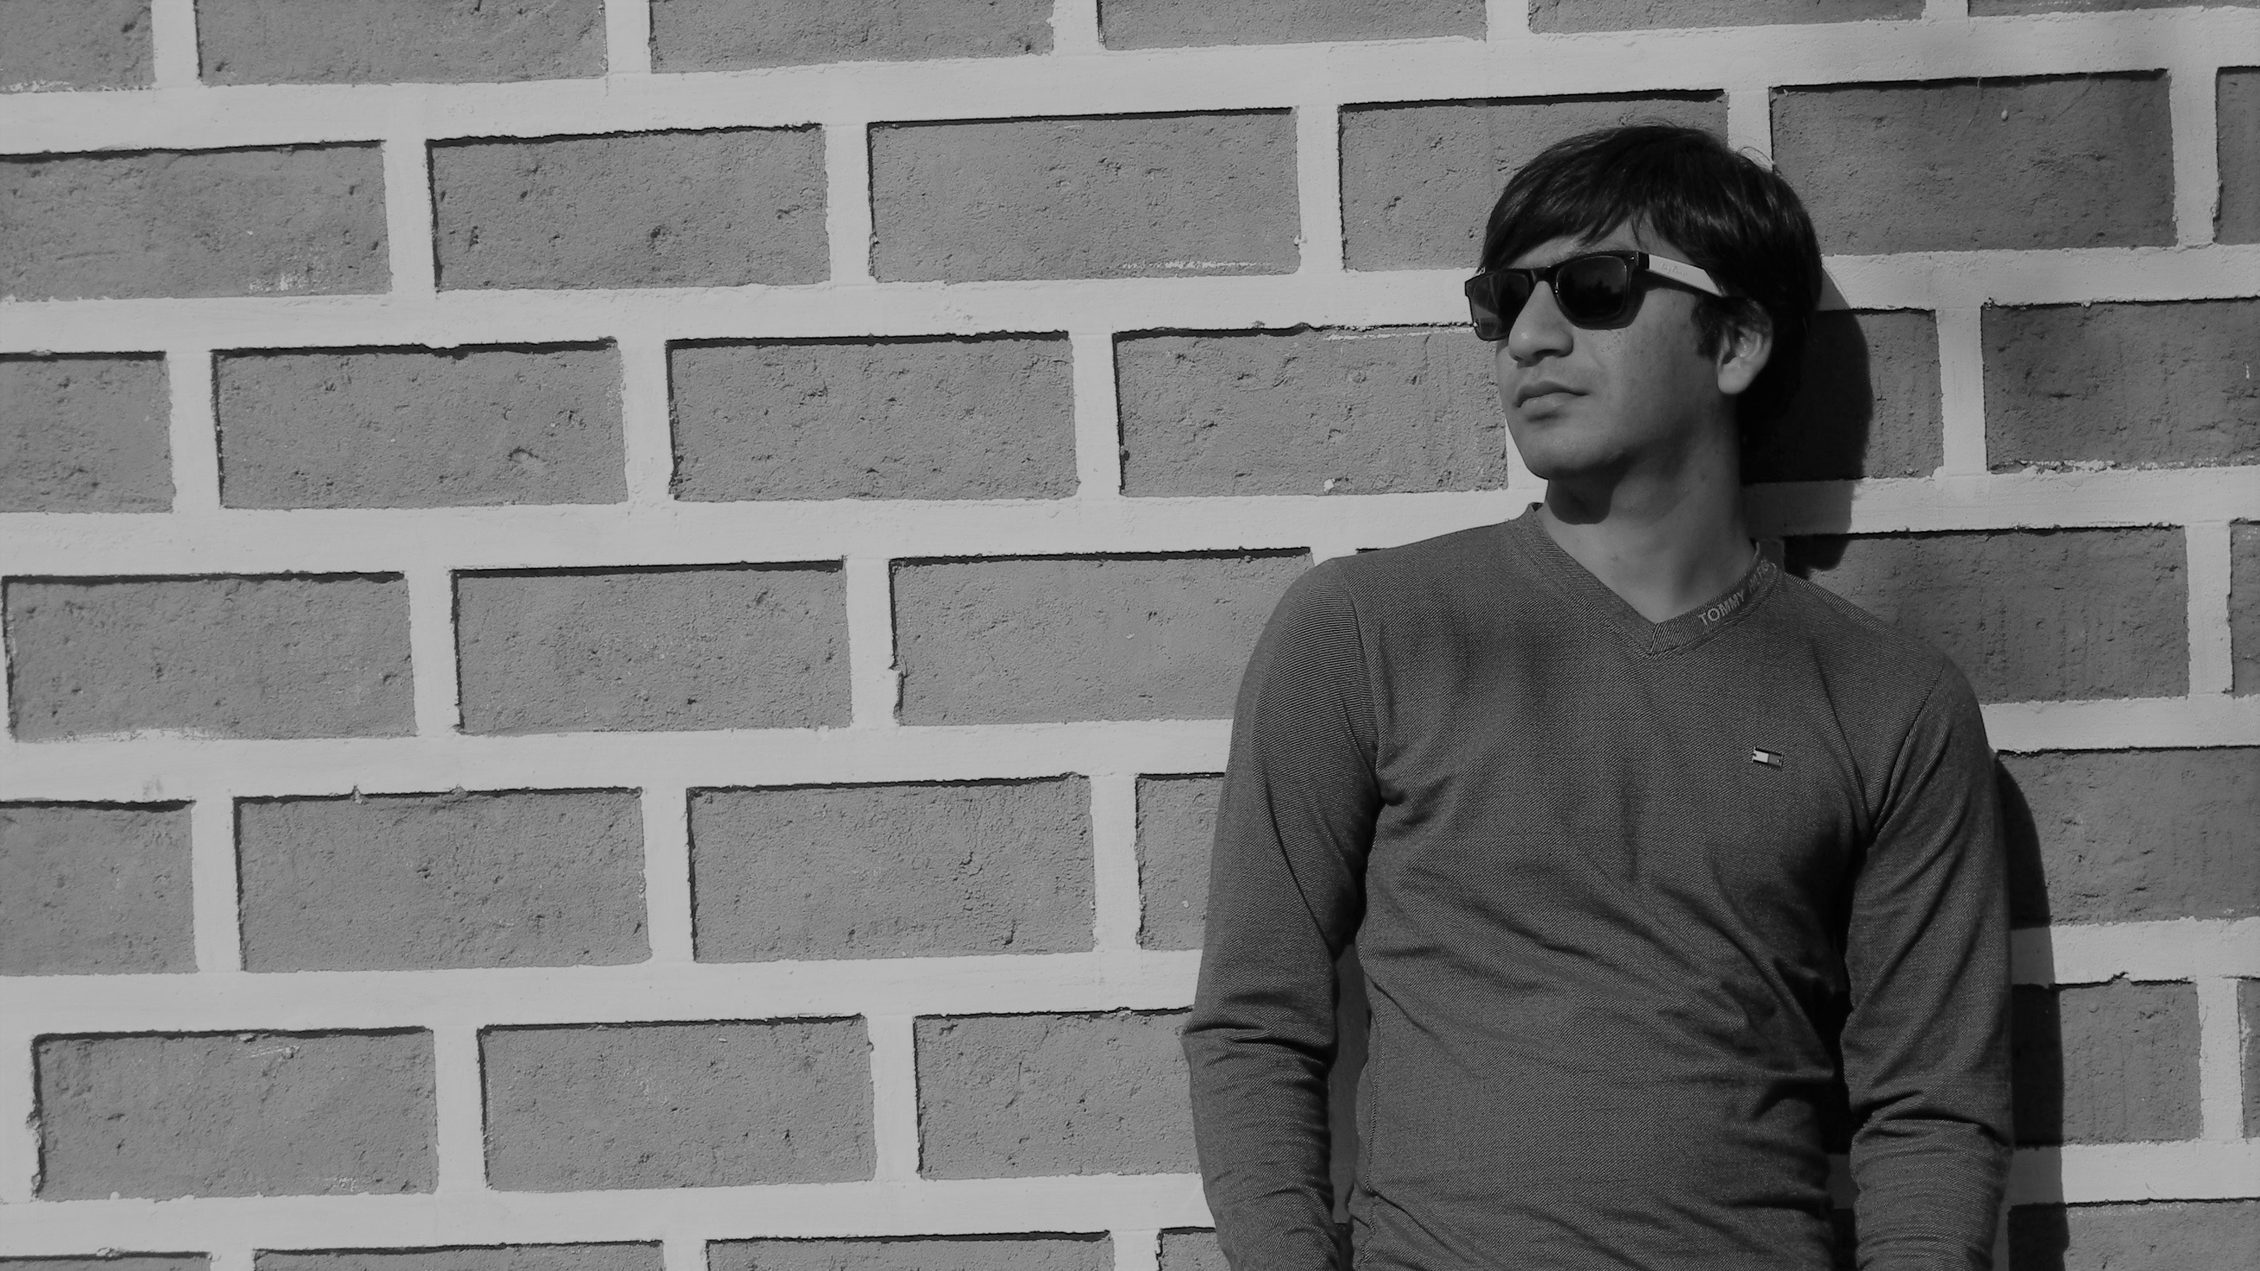
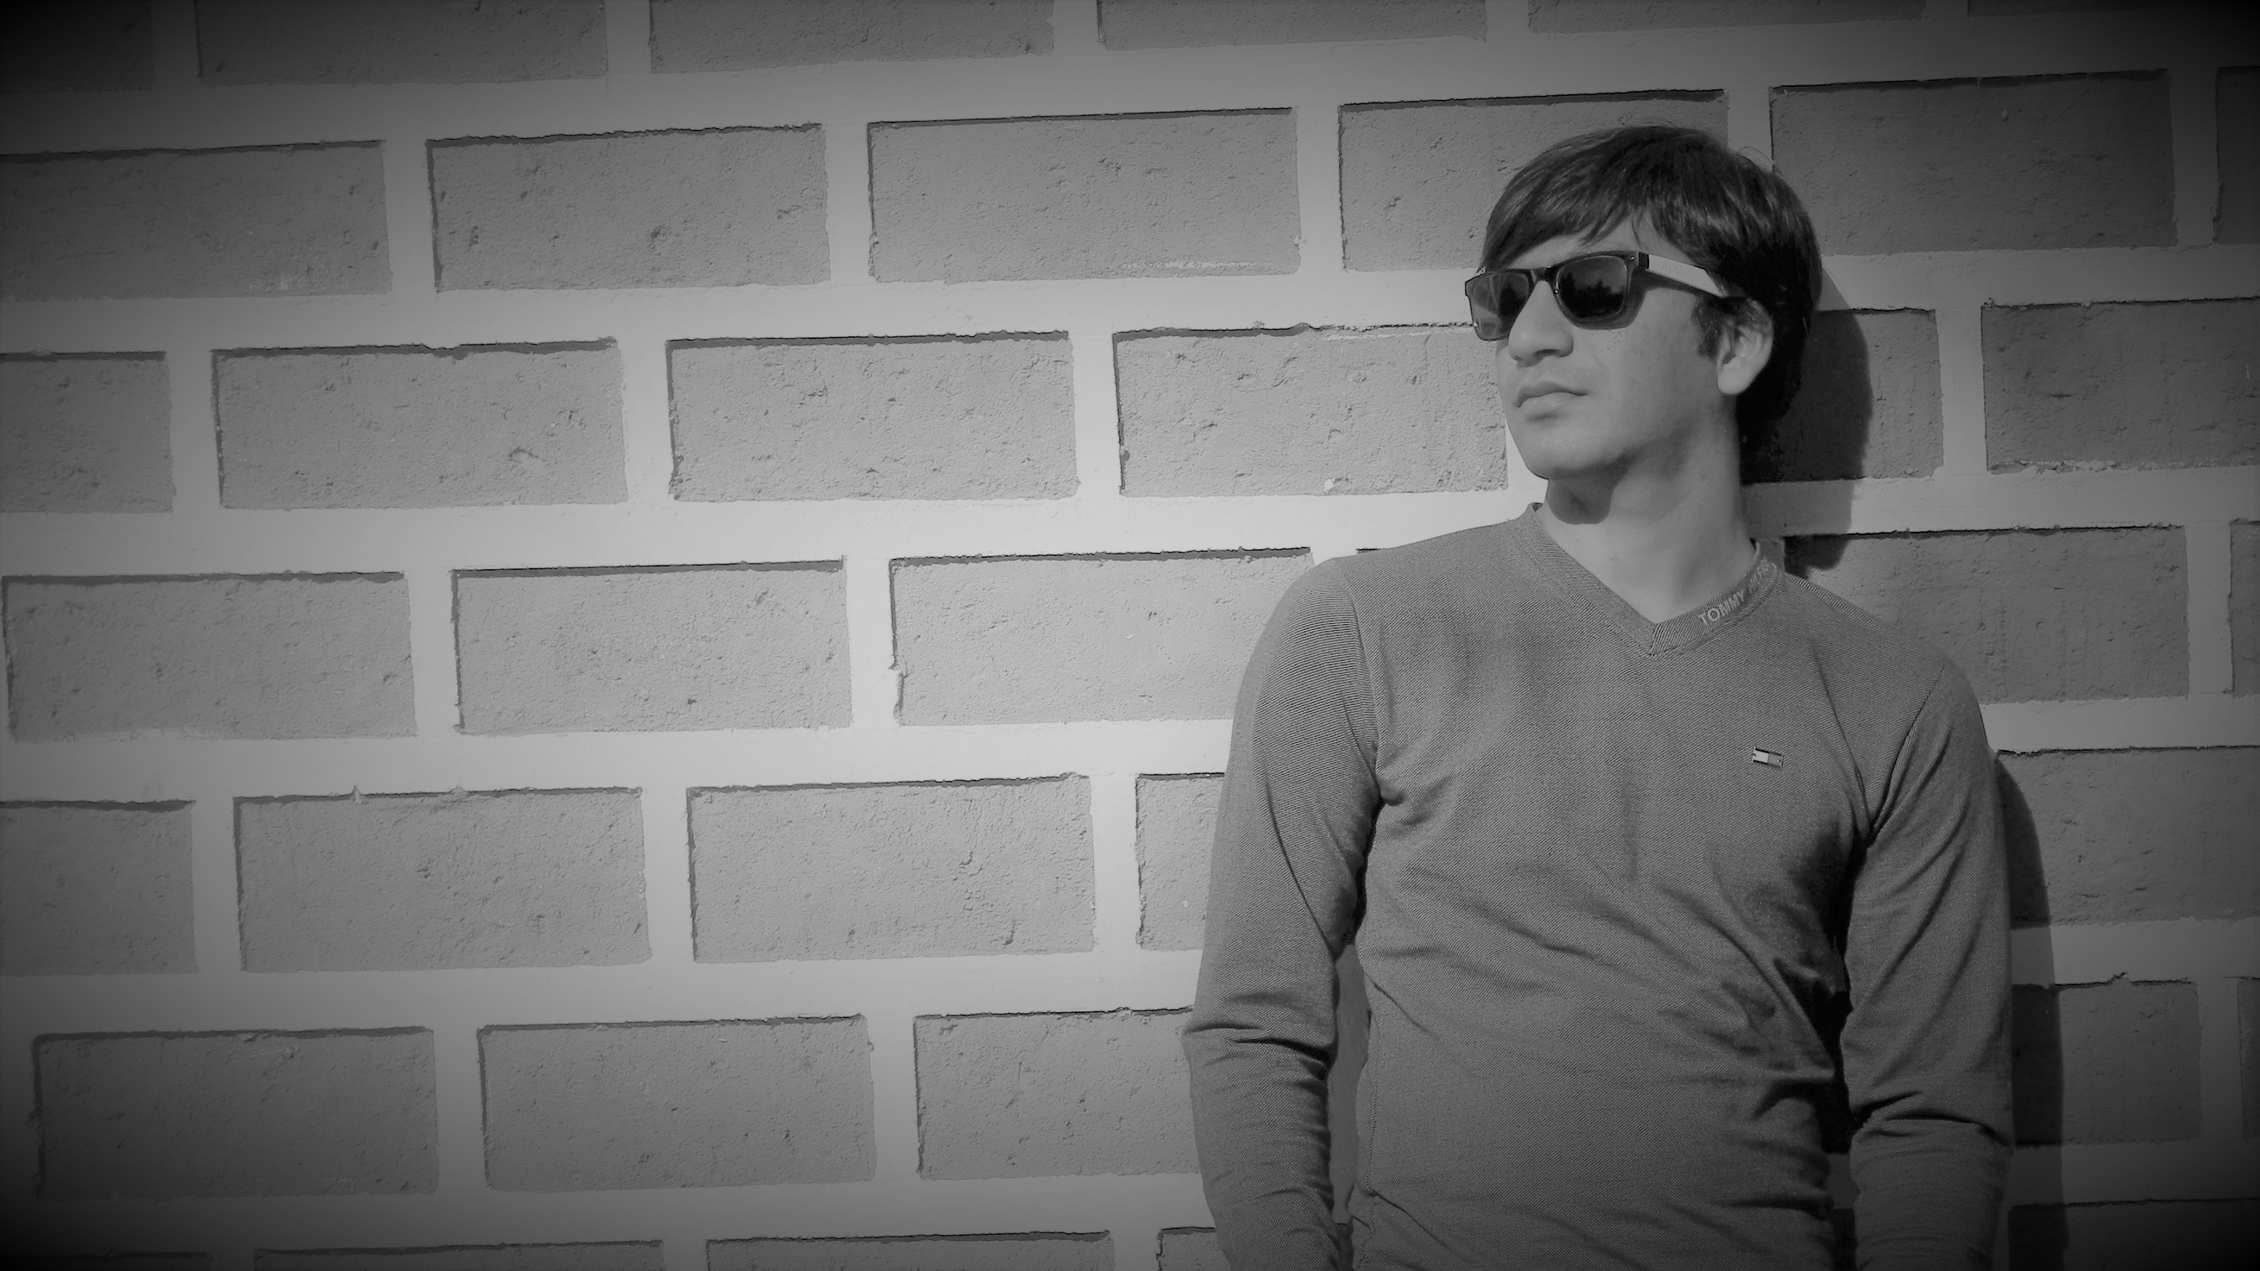
big update

diff --git a/index.html b/index.html
@@ -9,22 +9,23 @@
         <link rel="stylesheet" href="https://maxcdn.bootstrapcdn.com/bootstrap/4.0.0/css/bootstrap.min.css">
         <link rel="stylesheet" href="https://www.w3schools.com/w3css/4/w3.css">
         <script defer src="https://use.fontawesome.com/releases/v5.0.6/js/all.js"></script>
-        <script src="javascript.js"></script>
-
         <link href="https://fonts.googleapis.com/css?family=Raleway" rel="stylesheet">
     </head>
     <body>
 
+
         <!--Navigation BAR-->
-        <nav class="navbar w3-card-4 fixed-top navbar-expand-lg w3-white">
+        <nav class="navbar fixed-top navbar-expand-lg ">
             <div class="container">
-                <a class="navbar-brand d-flex flex-row" href="#">
-                    <img class="w3-circle mr-2 img-responsive"  src="http://via.placeholder.com/60x60">
-                    <span class=" text-center"><span style="vertical-align:sub">JAY <strong>PATEL</strong> </span><br> <span style="font-size: 12px; vertical-align: text-top"><strong>WEB</strong>DEVELOPER</span></span>
+                <a class="navbar-brand d-flex " href="#">
+                    <img class="w3-circle mr-2 img-responsive"  src="http://via.placeholder.com/70x70">
+                    <span class="py-auto">JAY <strong>PATEL</strong> <br> <span><strong>WEB</strong>DEVELOPER</span></span>
                 </a>
-                <button class="d-block d-lg-none w3-button w3-border w3-border-black ml-auto mr-2" type="button" data-toggle="collapse" data-target="#navbarCollapse" aria-controls="navbarCollapse" aria-expanded="false"><i class="fa fa-bars "></i></button>
-                <button class="w3-button w3-border w3-border-black d-block d-lg-none"><i class="fa fa-user-plus"></i></button>
-                <div class="collapse navbar-collapse ml-2" id="navbarCollapse">
+                <button class="d-block d-lg-none w3-button w3-hover-none w3-border w3-border-black ml-auto mr-2" type="button" data-toggle="collapse" data-target="#navbarCollapse" aria-controls="navbarCollapse" aria-expanded="false"><i class="fa fa-bars "></i></button>
+                <!--
+<button class="w3-button w3-border w3-border-black d-block d-lg-none"><i class="fa fa-user-plus"></i></button>
+-->
+                <div class="collapse navbar-collapse pl-2" id="navbarCollapse">
                     <ul class="navbar-nav ml-auto">
                         <li class="nav-item mr-4">
                             <a class="nav-link" href="#">HOME</a>
@@ -35,28 +36,32 @@
                         <li class="nav-item mr-4">
                             <a class="nav-link" href="#service">SERVICES</a>
                         </li>
-                        
+                        <li class="nav-item mr-4">
+                            <a class="nav-link" href="#service">PROJECTS</a>
+                        </li>
                         <li class="nav-item mr-4">
                             <a class="nav-link" href="#contact">CONTACT</a>
                         </li>
                         <!--
-                        <li class="mr-4">
-                            <a class="nav-link text-bold d-none d-lg-block" style="border: solid black 2px;" href="#"><strong>HIRE ME</strong></a>
-                        </li>
-                        -->
+<li class="mr-4">
+<a class="nav-link text-bold d-none d-lg-block" style="border: solid black 2px;" href="#"><strong>HIRE ME</strong></a>
+</li>
+-->
                     </ul>
                 </div>
             </div>
         </nav>
 
         <!--header image-->
-        <div id="headerImage" class=>
-            <div class="container" style="position: relative;top: 30%;">
-                <h1><strong>I</strong> CAN <strong>DO</strong></h1>
-                <h1><strong>WEB</strong> DEVELOPMENT</h1>
-                <p style="font-size: 28px">I'm a self-taught part-time web developer <br> based in Toronto currently pursuing <br> masters in Industrial Engineering <br> from University of Toronto</p>
-                <a class="w3-button w3-hover-none" style="border: black solid 2px" > <strong>LET'S TALK</strong></a>
-            </div>
+        <div id="headerImage" class="w3-grayscale">
+            <div id="headerContent" class="container">
+                <div>
+                    <h3><strong>HELLO,</strong>WORLD</h3>
+                    <h3>I'M A <strong>WEB</strong>DEVELOPER</h3>
+                    <p style="font-size: 20px">I'm a self-taught part-time web developer based in Toronto currently pursuing masters in Industrial Engineering from University of Toronto</p>
+                    <a class="w3-button w3-hover-none" style="border: black solid 5px;" > <strong>LET'S TALK</strong></a>
+                </div>
+            </div> 
         </div>
 
         <!--ABOUT ME-->
@@ -66,7 +71,7 @@
                 <div class="row">
 
                     <!--introduction -->
-                    <div class="col-sm">
+                    <div class="col-sm mb-4">
                         <h3>WHO <strong>AM</strong> I?</h3>
                         <p>I am a current master student at University of Toronto. I am pursuing M.Eng in Industrial Engineering. I am planning to get specialization certification of Information Engineering through my course selection.</p>
                         <p>I am a self taught web developer, spending my leisure time in sharpening my coding skills and developing my portfolio. I did my undergraduate in Mechanical Engineering from India.</p>
@@ -74,7 +79,7 @@
                     </div>
 
                     <!--skills-->
-                    <div class="col-sm">
+                    <div class="col-sm mb-4">
                         <h3>EXPERT <strong>IN</strong></h3>
                         <p>Mentioned skills are not exhaustive. New skills can be added depends on project requirements.</p>
                         <div class="mb-3">
@@ -124,7 +129,7 @@
 
             <div class="container my-5">
                 <div class="row">
-                    <div class="col-sm mx-2 p-4 w3-card">
+                    <div class="col-sm m-2 p-4 w3-card">
                         <h3><strong>EDU</strong>CATION</h3>
                         <table width="100%" class="my-2">
                             <col width="30%">
@@ -135,7 +140,7 @@
                             </tr>
                             <tr>
                                 <td style="vertical-align: super"><strong>GTU</strong></td>
-                                <td>Various versions have evolved over the years, sometimes by accident, sometimes on purpose (injected humour and the like).</td>
+                                <td>My undergrad was in mechnical engineering. I learnt the fundamental aspects of </td>
                             </tr> 
                         </table>
                         <table width="100%">
@@ -152,7 +157,7 @@
                         </table>
 
                     </div>
-                    <div class="col-sm mx-2 w3-card">
+                    <div class="col-sm m-2 w3-card">
                         <h3><strong>EX</strong>PERIENCE</h3>
                         <table width="100%" class="my-2">
                             <col width="30%">
@@ -185,15 +190,7 @@
                             </div>                            
                         </div>
                     </div>
-                    <div class="col-sm-12 col-md-6 col-lg-4">
-                        <div class="d-flex flex-row">
-                            <i class="pr-4 fa-5x fab fa-android"></i>
-                            <div>
-                                <h4>ANDROID <strong>DEVELOPMENT</strong></h4>
-                                <p>I do not count as a legitimate experience in Android App Development. But I have learnt it with java. Still need some work to show-up in portfolio.</p>
-                            </div>                            
-                        </div>
-                    </div>
+
                     <div class="col-sm-12 col-md-6 col-lg-4">
                         <div class="d-flex flex-row">
                             <i class="pr-4 fa-5x far fa-object-group"></i>
@@ -205,6 +202,27 @@
                     </div>
 
                 </div>
+                <h1 class="text-center py-4"><strong>I CAN TRY</strong></h1>
+                <div class="row">
+                    <div class="col-sm-12 col-md-6 col-lg-4">
+                        <div class="d-flex flex-row">
+                            <i class="pr-4 fa-5x fab fa-wordpress-simple"></i>
+                            <div>
+                                <h4>WORDPRESS <strong>DEVELOPMENT</strong></h4>
+                                <p>Currently, I am working on my wordpress developement skills. However, real-world project is the best way to put my knowledge to action and gain valuable experience.</p>
+                            </div>                            
+                        </div>
+                    </div>
+                    <div class="col-sm-12 col-md-6 col-lg-4">
+                        <div class="d-flex flex-row">
+                            <i class="pr-4 fa-5x fab fa-android"></i>
+                            <div>
+                                <h4>ANDROID <strong>DEVELOPMENT</strong></h4>
+                                <p>I do not count as a legitimate experience in Android App Development. But I have learnt it with java. Still need some work to show-up in portfolio.</p>
+                            </div>                            
+                        </div>
+                    </div>
+                </div>
             </div>
         </div>
 
@@ -213,46 +231,58 @@
         <div id="contact">
             <div class="container">
                 <h1 class="text-center py-4"><strong>CONTACT</strong></h1>
-                <div class="card mx-auto" style="width: 400px">
+                <div class="card mx-auto">
                     <div class="card-title text-center"><h4>HOME</h4></div>
                     <div id="myMap" class="card-image-top" style="position: relative;height: 400px; ">
                     </div>
 
                     <div class="card-body p-3 ">
                         <div class="d-flex flex-row">
-                            <i class="fa-2x mx-3 fas fa-home" style="padding: 5px; border: black solid 1px"></i>
-                            <p>280 Wellesley St. E., Toronto, Ontario, M4X1G7</p>
+                            <i class="fa-2x mx-3 fas fa-location-arrow" style="padding: 5px; border: black solid 1px"></i>
+                            <p style="margin-bottom: 0;">280 Wellesley St. E., Toronto, Ontario, M4X1G7</p>
                         </div>
                         <div class="d-flex flex-row">
                             <i class="fa-2x mx-3 fas fa-envelope" style="padding: 5px; border: black solid 1px"></i>
-                            <p>jayk.patel@mail.utoronto.ca</p>
+                            <a href="mailto:jayk.patel@mail.utoronto.ca">jayk.patel@mail.utoronto.ca</a>
                         </div>
                         <div class="d-flex flex-row">
                             <i class="fa-2x mx-3 fas fa-phone" style="padding: 5px; border: black solid 1px"></i>
                             <p>+1 647-878-5411</p>
                         </div>
-
                     </div>
-
                 </div>
-
             </div>
         </div>
 
-        <div class="w3-black mt-3">
+        <div class="w3-black mt-3 pt-4">
             <div class="d-flex justify-content-center ">
-                <i class="fa-3x fab fa-twitter-square" style="padding: 5px; border: black solid 1px"></i>
-                <i class="fa-3x fab fa-google-plus-square" style="padding: 5px; border: black solid 1px"></i>
-                <i class="fa-3x fab fa-facebook" style="padding: 5px; border: black solid 1px"></i>
-                <i class="fa-3x fab fa-instagram" style="padding: 5px; border: black solid 1px"></i>
-                <i class="fa-3x fab fa-github" style="padding: 5px; border: black solid 1px"></i>
-                <a href="#"><i  class="fa-3x fab fa-linkedin" style="padding: 5px; border: black solid 1px"></i></a>
+                <a href="https://twitter.com/Jay2JayKP"><i class="fa-3x fab fa-twitter-square" style="padding: 5px; border: black solid 1px"></i></a>
+                <a href="https://google.com/+JayPatelIN"><i class="fa-3x fab fa-google-plus-square" style="padding: 5px; border: black solid 1px"></i></a>
+                <a href="https://www.facebook.com/jay2jaykp"><i class="fa-3x fab fa-facebook" style="padding: 5px; border: black solid 1px"></i></a>
+                <a href="https://www.instagram.com/jay2jaykp/"><i class="fa-3x fab fa-instagram" style="padding: 5px; border: black solid 1px"></i></a>
+                <a href="https://github.com/jay2jaykp"><i class="fa-3x fab fa-github" style="padding: 5px; border: black solid 1px"></i></a>
+                <a href="https://www.linkedin.com/in/jay2jaykp/"></a><a href="#"><i  class="fa-3x fab fa-linkedin" style="padding: 5px; border: black solid 1px"></i></a>
             </div>
         </div>
         <!--javascripts at the end of the webpage content--> 
+        <script>
+            function initMap() {
+                var center1 = {lat: 43.664764, lng:  -79.367940};
+                var map1 = new google.maps.Map(document.getElementById('myMap'), {
+                    zoom: 18,
+                    center: center1
+                }); 
+                var marker1 = new google.maps.Marker({
+                    position: center1,
+                    map: map1
+                });
+            }
+        </script>
+
         <script src="https://maps.googleapis.com/maps/api/js?key=AIzaSyCLxgS4ojEJnlcJeQPwLbAW-vpTJ9VaIN8&callback=initMap"></script>
         <script src="https://ajax.googleapis.com/ajax/libs/jquery/3.3.1/jquery.min.js"></script>
         <script src="https://cdnjs.cloudflare.com/ajax/libs/popper.js/1.12.9/umd/popper.min.js"></script>
         <script src="https://maxcdn.bootstrapcdn.com/bootstrap/4.0.0/js/bootstrap.min.js"></script>
+        <script src="javascript.js"></script>
     </body>
 </html>

diff --git a/style.css b/style.css
@@ -1,38 +1,58 @@
 html, body {
     height: 100%;
-    margin: 0;
 }
+
 * {
     font-family: 'Raleway', sans-serif !important;
+}
 }
 div {
     margin: 0;
     padding: 0;
 }
+nav {
+     -webkit-transition: all 0.5s ease;
+    -moz-transition: all 0.5s ease;
+    -o-transition: all 0.5s ease;
+    transition: all 0.5s ease;
+    font-size: 18px;
+}
 
 #headerImage {
-    background-image: url(images/headerImage.JPG);
-    height: 100%;
-    opacity: 0.5;
-    background-blend-mode: darken;
+    background-image: url(images/DSCN8859.JPG);
+    height: 100%;   
 }
 
 #service {
-    background-image: url(images/servce.jpg);
+    background-image: url(images/sevices.jpg);
 }
 
 #headerImage, #service {
     background-attachment: fixed;
-    background-position: center;
+    background-position: center 0px;
     background-repeat: no-repeat;
     background-size: cover;
 }
 
+#headerContent {
+    position: relative;
+}
+
+#headerContent > div {
+    position: absolute;
+    top: 200px;
+    right: 0;
+    max-width: 500px;
+    padding: 2px;
+    color: papayawhip;
+    text-align: right;
+}
 
 /*changing the hover effect of bootstrap*/
 a:hover {
     color: inherit !important;
 }
+
 .nav-item > a:hover {
     color: inherit !important;
     text-decoration: line-through !important;
@@ -43,6 +63,7 @@ a:hover {
     height: 6px;
     position: relative;
 }
+
 #progressBar > span {
     background-color: black;
     color: white;

diff --git a/javascript.js b/javascript.js
@@ -1,12 +1,41 @@
-function initMap() {
-    var center1 = {lat: 43.664764, lng:  -79.367940};
-    var map1 = new google.maps.Map(document.getElementById('myMap'), {
-        zoom: 18,
-        center: center1
-    }); 
-    var marker2 = new google.maps.Marker({
-        position: center2,
-        map: map2
-    });
+//navigation become white when scrolling....
+$(window).scroll(function() {
+    if ($(window).width() < 992){
+        if ($(window).scrollTop() > 50) {
+            $('nav').addClass('w3-white w3-card-4');
+            $('#navbarCollapse').removeClass('w3-white w3-card-4');
+        } else {
+            $('nav').removeClass('w3-white w3-card-4');
+            $('#navbarCollapse').addClass('w3-white w3-card-4');
+
+        }
+    } else {
+        if ($(window).scrollTop() > 50) {
+            $('nav').addClass('w3-white w3-card-4');
+            $('#navbarCollapse').removeClass('w3-white w3-card-4');
+        } else {
+            $('nav').removeClass('w3-white w3-card-4');
+        }
+    }
+});
+
+if($(window).width() < 991) {
+    $('#navbarCollapse').addClass('w3-white w3-card-4');
+} else {
+    $('#navbarCollapse').removeClass('w3-white w3-card-4');
+
 }
 
+
+
+
+//
+var $root = $('html, body');
+
+$('a[href^="#"]').click(function () {
+    $root.animate({
+        scrollTop: $( $.attr(this, 'href') ).offset().top
+    }, 500);
+
+    return false;
+});
